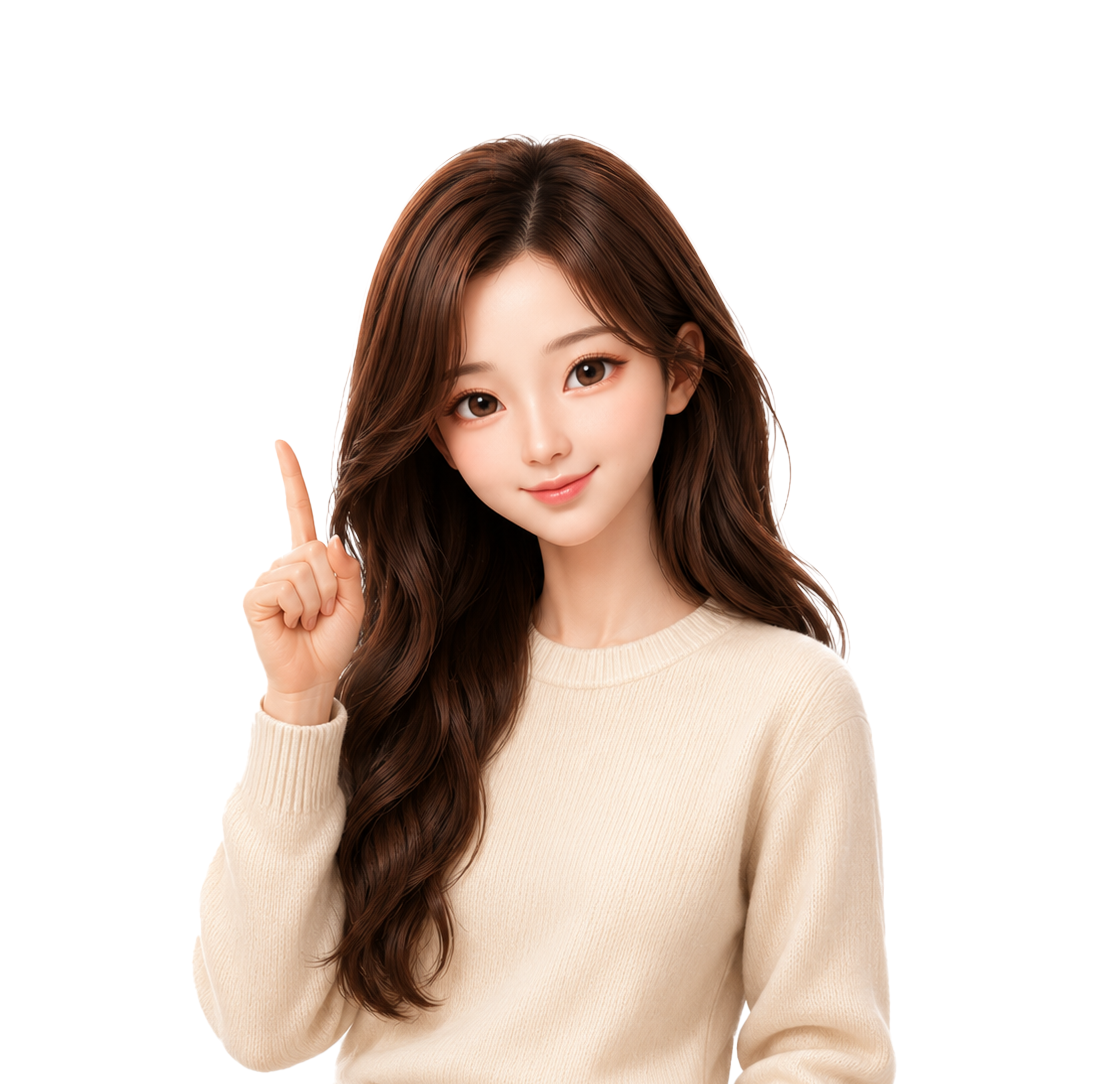
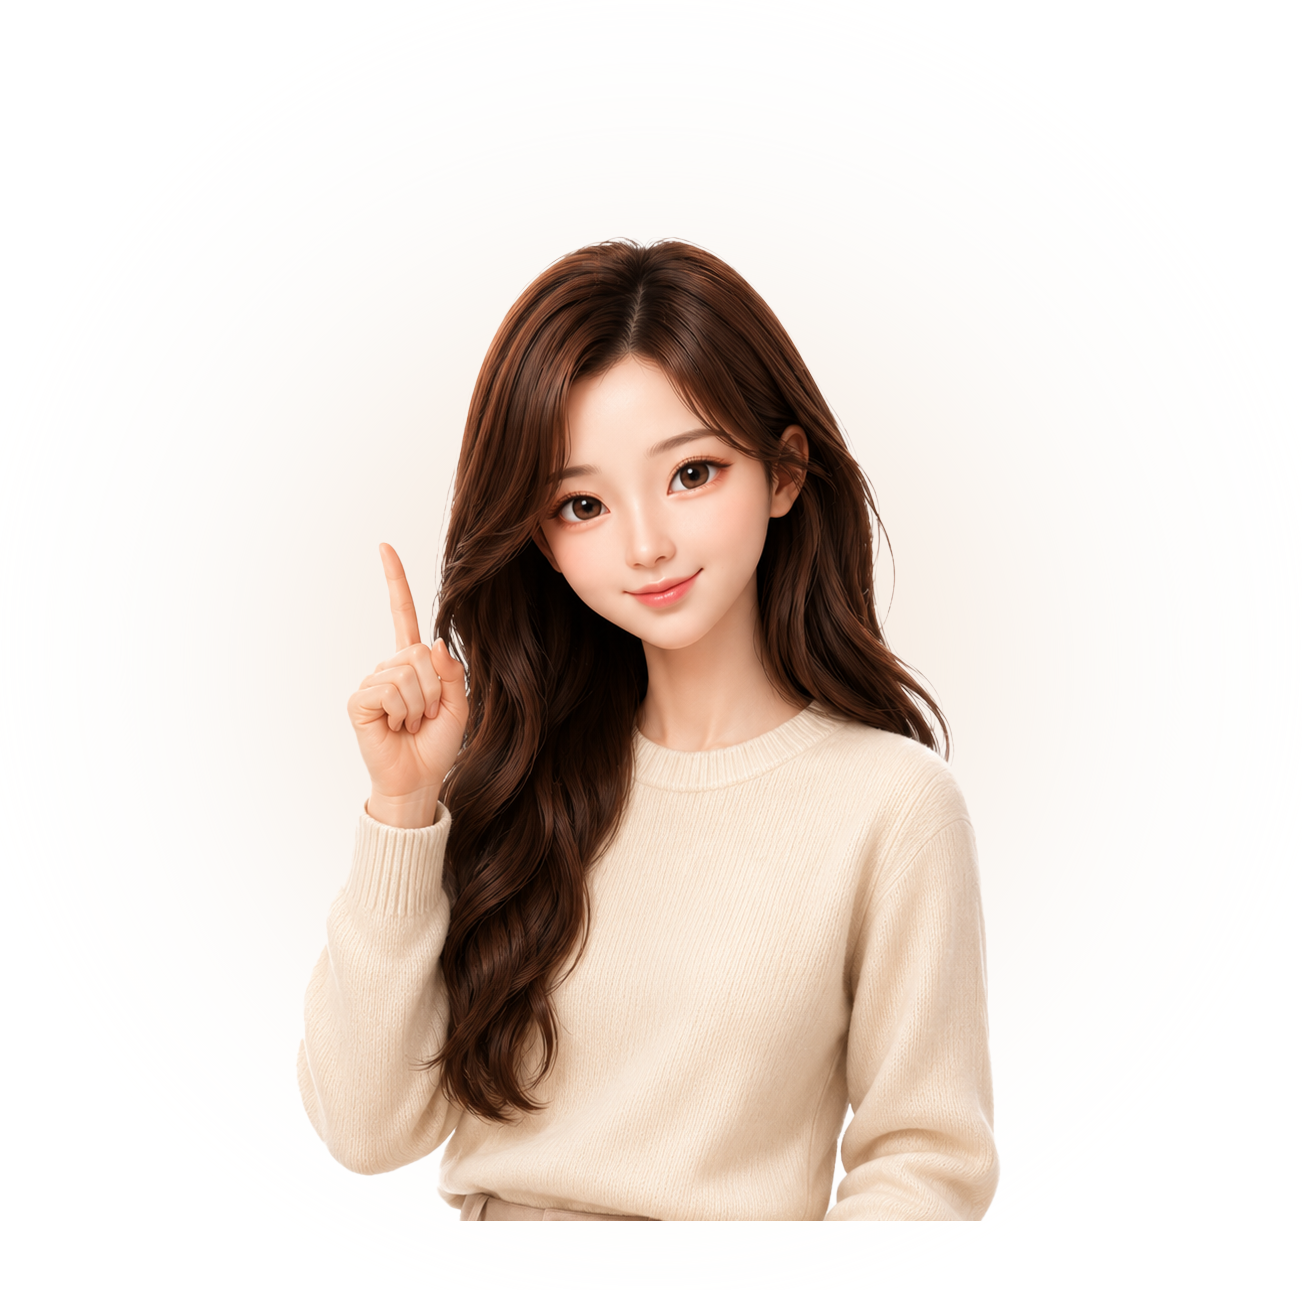
7/22

Changed region(s): [[0.1554, 0.1218, 0.8391, 1.0]]

diff --git a/css/index.css b/css/index.css
@@ -89,6 +89,7 @@ header{
   width: 100%;
   height: 100vh;
   overflow: hidden;
+
 }
 .sec1-main {
   position: absolute;
@@ -110,6 +111,8 @@ header{
     opacity 1.2s ease,
     transform 1.2s cubic-bezier(0.22, 1, 0.36, 1),
     filter 1s ease;
+
+  filter: drop-shadow(0 18px 30px rgba(0,0,0,.08));
 }
 .sec1-main img {
   display: block;

diff --git a/index.html b/index.html
@@ -44,7 +44,7 @@
         <!-- section1 -->
         <div id="section1">
           <div class="sec1_img sec1-main">
-            <img src="img/my.png" alt="">
+            <img src="img/my2.png" alt="">
           </div>
           <div class="sec1_background">
             <ul>
